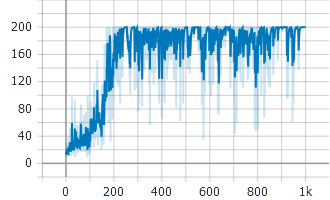
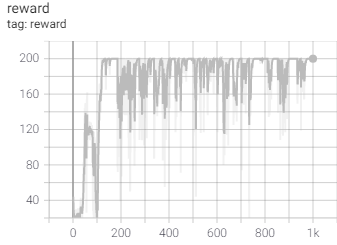
update settings & configs & assets

diff --git a/examples/common/settings.py b/examples/common/settings.py
@@ -16,8 +16,7 @@ from typing import (
 
 @attr.s(auto_attribs=True)
 class HyperparamSettings:
-    hidden_size: int = 100
-    given_net: bool = False
+    use_network: bool = True
     marl: bool = False
 
 
@@ -48,58 +47,92 @@ class SARSASettings(HyperparamSettings):
 @attr.s(auto_attribs=True)
 class DQNSettings(HyperparamSettings):
     c_lr: float = 0.005
-    buffer_capacity: int = 256
+    buffer_capacity: int = 1024
     batch_size: int = 64
     gamma: float = 0.99
     epsilon: float = 0.5
     epsilon_end: float = 0.05
     target_replace: int = 100
-    network: str="critic"
+    hidden_size: int = 64
+    learn_freq: int = 1
+    learn_terminal: bool = False
+    property_additional: list = ["action"]
 
 
 @attr.s(auto_attribs=True)
 class DDQNSettings(HyperparamSettings):
     c_lr: float = 0.005
-    buffer_capacity: int = 256
+    buffer_capacity: int = 1024
     batch_size: int = 64
     gamma: float = 0.99
     epsilon: float = 0.5
     epsilon_end: float = 0.05
     target_replace: int = 100
+    hidden_size: int = 64
+    learn_freq: int = 1
+    learn_terminal: bool = False
 
 
 @attr.s(auto_attribs=True)
 class DUELINGQSettings(HyperparamSettings):
     c_lr: float = 0.005
-    buffer_capacity: int = 256
+    buffer_capacity: int = 1024
     batch_size: int = 64
     gamma: float = 0.99
     epsilon: float = 0.5
     epsilon_end: float = 0.05
     target_replace: int = 100
-    network: str="critic"
+    hidden_size: int = 64
+    learn_freq: int = 1
+    learn_terminal: bool = False
 
 
 @attr.s(auto_attribs=True)
 class DDPGSettings(HyperparamSettings):
     a_lr: float = 0.005
     c_lr: float = 0.005
-    buffer_capacity: int = 256
+    buffer_capacity: int = 1024
     batch_size: int = 64
     gamma: float = 0.99
     tau: float = 0.2
     epsilon: float = 0.5
     epsilon_end: float = 0.05
+    hidden_size: int = 64
     update_freq: int = 5
-    network: str="actor_critic"
+    learn_freq: int = 10
+    learn_terminal: bool = False
+
+
+@attr.s(auto_attribs=True)
+class TD3Settings(HyperparamSettings):
+    a_lr: float = 0.0003
+    batch_size: int = 100
+    buffer_capacity: int = 10240
+    c_lr: float = 0.0003
+    epsilon: float = 0.3
+    epsilon_end: float = 0.05
+    exploration_noise: float = 0.1
+    gamma: float = 0.99
+    hidden_size: int = 100
+    noise_clip: float = 0.5
+    policy_delay: int = 2
+    policy_noise: float = 0.2
+    target_replace: int = 100
+    tau: float = 0.005
+    update_freq: int = 10
+    marl: bool = False
+    learn_freq: int = 10
+    learn_terminal: bool = False
 
 
 @attr.s(auto_attribs=True)
 class PGSettings(HyperparamSettings):
-    c_lr: float = 0.005
+    lr: float = 0.005
     buffer_capacity: int = 256
     batch_size: int = 64
     gamma: float = 0.99
+    hidden_size: int = 64
+    learn_terminal: bool = True
 
 
 @attr.s(auto_attribs=True)
@@ -108,6 +141,8 @@ class ACSettings(HyperparamSettings):
     buffer_capacity: int = 100
     batch_size: int = 32
     gamma: float = 0.99
+    hidden_size: int = 64
+    learn_terminal: bool = True
 
 
 @attr.s(auto_attribs=True)
@@ -120,22 +155,36 @@ class PPOSettings(HyperparamSettings):
     buffer_capacity: int = 100
     batch_size: int = 32
     gamma: float = 0.99
+    hidden_size: int = 64
+    learn_terminal: bool = True
+
 
 @attr.s(auto_attribs=True)
 class PPO_CNNSettings(PPOSettings):
     cnn_encoder: bool = True
 
+
 @attr.s(auto_attribs=True)
 class SACSettings(HyperparamSettings):
     c_lr: float = 0.0001
-    buffer_capacity: int = 256
+    a_lr: float = 0.0001
+    alpha_lr: float = 0.0001
+    target_entropy_ratio: float = 0.7
+    buffer_capacity: int = 1024
     batch_size: int = 64
     gamma: float = 0.99
     target_replace: int = 100
     tune_entropy: bool = False
     alpha: float = 0.2
-    network: str = "critic"
-    policy_type: str = "discrete"
+    epsilon: float = 0.2
+    epsilon_end: float = 0.05
+    hidden_size: int = 128
+    num_hid_layer: int = 1
+    learn_freq: int = 1
+    learn_terminal: bool = False
+    tau: float = 0.005
+
+
 
 @attr.s(auto_attribs=True)
 class MADDPGSettings(HyperparamSettings):
@@ -149,6 +198,7 @@ class MADDPGSettings(HyperparamSettings):
     marl: bool = True
     action_continuous: bool = True
 
+
 @attr.s(auto_attribs=True)
 class EnvSettingDefault:
     scenario: str = "classic_CartPole-v0"
@@ -161,12 +211,10 @@ class EnvSettingDefault:
 
 @attr.s(auto_attribs=True)
 class TrainingDefault:
-    learn_freq: int = 1
-    learn_terminal: bool = False
-    max_episodes: int = 500
+    max_episodes: int = 1000
     evaluate_rate: int = 50
     render: bool = False
-    save_interval: int = 500
+    save_interval: int = 100
 
 
 @attr.s(auto_attribs=True)

diff --git a/examples/agents/multiagents.py b/examples/agents/multiagents.py
@@ -11,11 +11,6 @@ def ini_agents(args):
     agent_file_import = importlib.import_module(agent_file_name)
     agent_class_name = args.algo.upper()
 
-    # network_file_name = str("networks" + "." + str(args.network))
-    # network_file_import = importlib.import_module(network_file_name)
-    # network_class_name = ''.join([ item.capitalize() for item in args.network.split("_")][:])
-    # network = getattr(network_file_import, network_class_name)
-
     # 实例化agent
     agent = getattr(agent_file_import, agent_class_name)(args)
     return agent

diff --git a/examples/agents/singleagent.py b/examples/agents/singleagent.py
@@ -11,11 +11,6 @@ def ini_agents(args):
     agent_file_import = importlib.import_module(agent_file_name)
     agent_class_name = args.algo.upper()
 
-    # network_file_name = str("networks" + "." + str(args.network))
-    # network_file_import = importlib.import_module(network_file_name)
-    # network_class_name = ''.join([ item.capitalize() for item in args.network.split("_")][:])
-    # network = getattr(network_file_import, network_class_name)
-
     # 实例化agent
     agent = getattr(agent_file_import, agent_class_name)(args)
     return agent

diff --git a/examples/algo/ac/ac.py b/examples/algo/ac/ac.py
@@ -30,10 +30,7 @@ class AC(object):
         self.lr = args.c_lr
         self.gamma = args.gamma
 
-        if args.given_net:
-            self.policy = args.network(self.state_dim, self.action_dim, self.hidden_size)
-        else:
-            self.policy = ActorCritic(self.state_dim, self.action_dim, self.hidden_size)
+        self.policy = ActorCritic(self.state_dim, self.action_dim, self.hidden_size)
         self.optimizer = optim.Adam(self.policy.parameters(), lr=self.lr)
 
         self.save_actions = []

diff --git a/examples/algo/maddpg/maddpg.py b/examples/algo/maddpg/maddpg.py
@@ -139,16 +139,3 @@ class MADDPG():
             agent = self.agents[n]
             para_dict[n] = agent.actor_target.state_dict()
         torch.save(para_dict, str(p_dir)+'/actor_dict_{}.pth'.format(epoch))
-'''
-class argument():
-    def __init__(self):
-        self.gamma = 0.97
-        self.lr_c = 0.01
-        self.lr_a = 0.01
-        self.buffer_size = 1e6
-        self.batch_size = 1256
-        self.tao = 0.01
-
-if __name__ == '__main__':
-    args = argument()
-'''

diff --git a/examples/demo/random/submission.py b/examples/demo/random/submission.py
@@ -5,7 +5,7 @@
 """
 # =================================== Important =========================================
 Notes:
-1. this agent is random agent , which can fit any env in Jidi platform.
+1. this agents is random agents , which can fit any env in Jidi platform.
 2. if you want to load .pth file, please follow the instruction here:
 https://github.com/jidiai/ai_lib/blob/master/examples/demo
 """

diff --git a/examples/algo/pg/pg.py b/examples/algo/pg/pg.py
@@ -25,7 +25,7 @@ class PG(object):
         self.state_dim = args.obs_space
         self.action_dim = args.action_space
 
-        self.lr = args.c_lr
+        self.lr = args.lr
         self.gamma = args.gamma
 
         self.policy = Actor(self.state_dim, self.action_dim)
